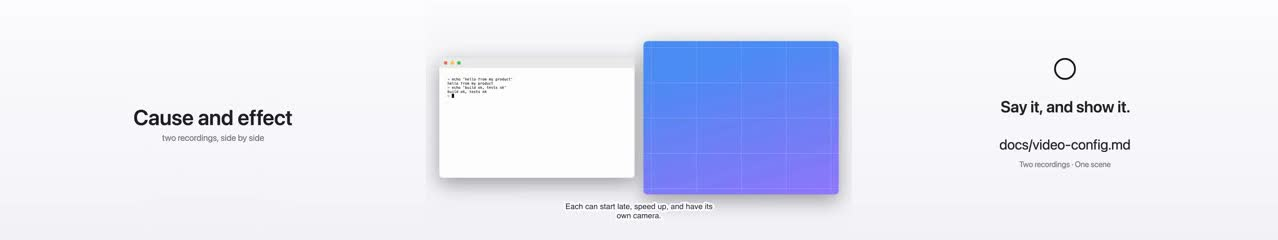
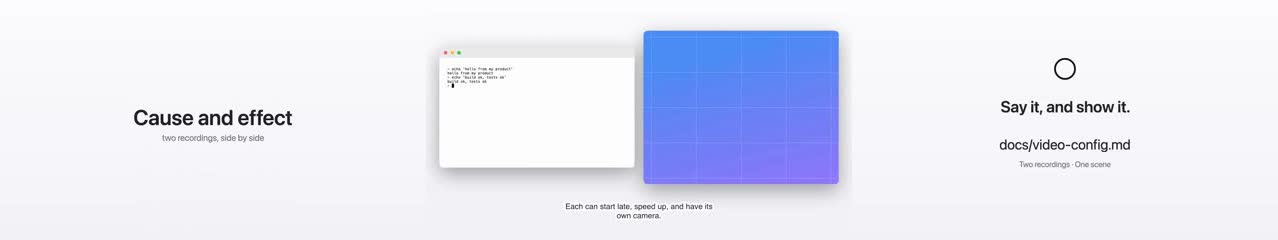
Videos: fix the review findings
Captions: every drawn scene type is in the burned-caption groups
(CAPTION_GROUPS in resolve.mjs, with a test that no type is left out), so
`captions.scenes: all` no longer drops stats, steps, code and compare scenes.
A constant `speed` is any positive number again; the 0.1 to 30 limits apply
to the speeds of a list. The voice cache key includes the versions of
kokoro-js, the phonemizer and transformers. Karaoke words escape braces and
backslashes so narration cannot open an ASS override block.

Split scenes keep the bottom of a 16:9 frame clear for captions, and
frame-split.sh stops with ffprobe's message when a clip cannot be read.
`kinhin video build --watch` keeps watching when a build cannot start, not
only when it exits non-zero. The framing cache remembers each recording's
hash by size and time, looks each clip up once, and clears clips unused for
two months.

Changed region(s): [[0.3357, 0.6708, 0.6714, 0.875], [0.3357, 0.2042, 0.4883, 0.4083], [0.4883, 0.1167, 0.6714, 0.175]]

diff --git a/Sources/kinhin/Commands/VideoCommand.swift b/Sources/kinhin/Commands/VideoCommand.swift
@@ -219,11 +219,23 @@ enum VideoCommand {
             }
             return
         }
-        // Watching: a failed build is reported and the next change tries again. Ctrl-C ends it.
+        // Watching: a build that fails, or cannot start (the container runtime went away), is reported and the next change tries
+        // again. Ctrl-C ends it.
+        /// One build while watching; false when the watch was cancelled.
+        func attempt() async -> Bool {
+            do {
+                let built = try await buildOnce()
+                if !built { printError("the video build failed; fix it and save to try again") }
+            } catch is CancellationError {
+                return false
+            } catch {
+                printError("\(error.localizedDescription); fix it and save to try again")
+            }
+            return true
+        }
         let folder = VideoProjects.directory(in: repo)
         var seen = VideoWatcher.snapshot(of: folder)
-        let first = try await buildOnce()
-        if !first { printError("the video build failed; fix it and save to try again") }
+        guard await attempt() else { return }
         while true {
             printError("==> watching \(relative(folder, to: repo)) for changes (Ctrl-C to stop)")
             let next: (snapshot: [String: Date], changed: [String])
@@ -236,8 +248,7 @@ enum VideoCommand {
             printError(
                 "==> changed: \(next.changed.prefix(3).joined(separator: ", "))\(next.changed.count > 3 ? ", ..." : "")"
             )
-            let rebuilt = try await buildOnce()
-            if !rebuilt { printError("the video build failed; fix it and save to try again") }
+            guard await attempt() else { return }
         }
     }
 

diff --git a/docs/video-config.md b/docs/video-config.md
@@ -164,7 +164,7 @@ drawn at their own resolution, so a zoom of 2 or more is sharpest on a recording
 
 ## Speed ramps
 
-A recording can play fast through the waiting and slow down for the moment that matters. `speed` is a number, or a list of
+A recording can play fast through the waiting and slow down for the moment that matters. `speed` is a number (any positive one), or a list of
 segments. Each segment plays at its own `speed` up to `until`, a second of the recording counted from where its story starts
 (the last segment has no `until` and plays to the end of the scene):
 
@@ -177,7 +177,7 @@ segments. Each segment plays at its own `speed` up to `until`, a second of the r
     ramp: 0.4                                  # seconds to ease between speeds (default 0.4; 0 jumps)
 ```
 
-Where the speed changes it eases over `ramp` seconds, through speeds in between, so a jump from 8x to 1x reads as the recording
+Each speed in the list is from 0.1 to 30. Where the speed changes it eases over `ramp` seconds, through speeds in between, so a jump from 8x to 1x reads as the recording
 slowing down. The scene lasts at least as long as its closed segments take to play (in the example, 20/8 + 10 seconds and the two
 eases), however short the narration. Camera times count the scene's own seconds, after the ramps. Speed lists work in every frame.
 

diff --git a/docs/videos-for-your-project.md b/docs/videos-for-your-project.md
@@ -106,7 +106,7 @@ A build keeps what it can reuse in `.kinhin/videos/.cache/` (commit nothing from
 |---|---|---|
 | The voice of each sentence | `voice-cache/` | the sentence, the voice and its speed are the same, so a change to one line speaks only that line |
 | Title and other drawn scenes | `scenes/` | the scene's props, length, theme and format are the same |
-| Framed recordings (laptop, window, split) | `frames/` | the scene's props, length, look and recordings are the same, and so is the framing code |
+| Framed recordings (laptop, window, split) | `frames/` | the scene's props, length, look and recordings are the same, and so is the framing code; unused ones are cleared after two months |
 
 Every build prints how long each step took. To iterate on one scene, build just that scene, and add `--watch` to rebuild on every save:
 
